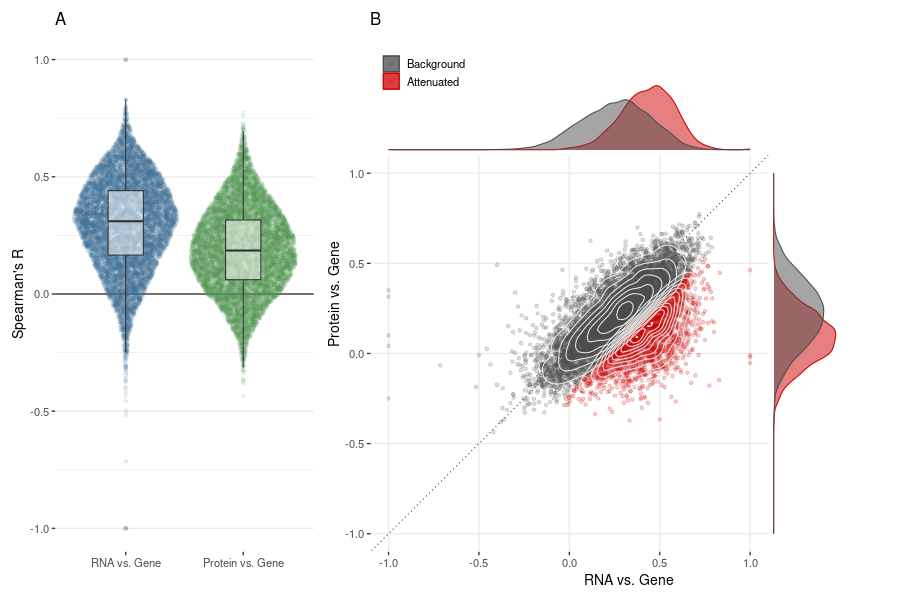
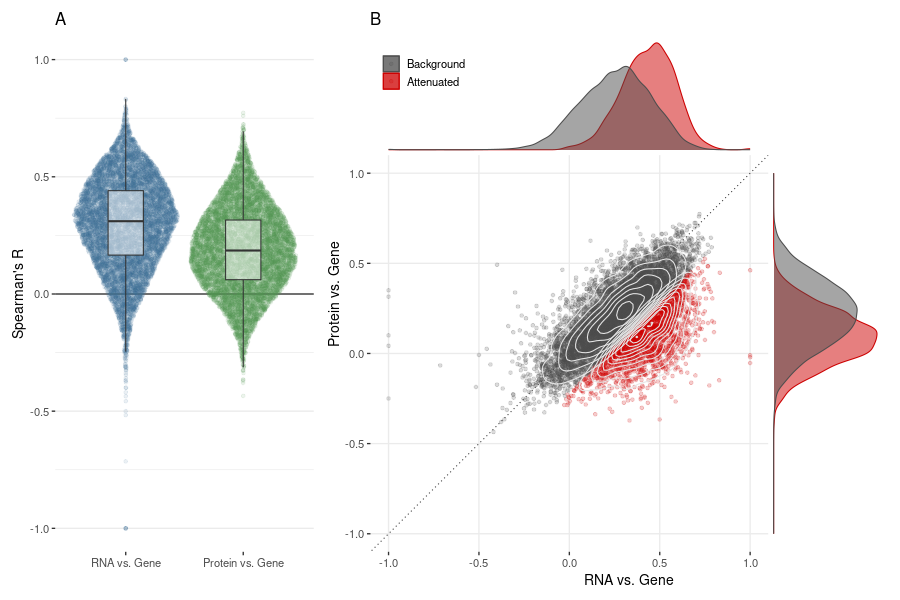
Minor scaling fixes

diff --git a/simple_figures/simple_figures.md b/simple_figures/simple_figures.md
@@ -598,14 +598,14 @@ plot_values <- ggplot(
     limits = c(-1, 1)
   ) +
   scale_xsidey_continuous(
-    limits = c(0, 4.5)
+    limits = c(0, 2.7)
   ) +
   scale_y_continuous(
     name = "Protein vs. Gene",
     limits = c(-1, 1)
   ) +
   scale_ysidex_continuous(
-    limits = c(0, 4.5)
+    limits = c(0, 2.7)
   ) +
   scale_color_manual(
     values = c("red3", "grey30")
@@ -643,7 +643,7 @@ plot(plot_values)
 
 ![](simple_figures.markdown_strict_files/figure-markdown_strict/unnamed-chunk-14-1.png)
 
-### Assemble into a single plot
+### Assemble into a single figure
 
 Once you have all your panels designed the way you want, you can
 assemble them into a multi-panel figure using the
